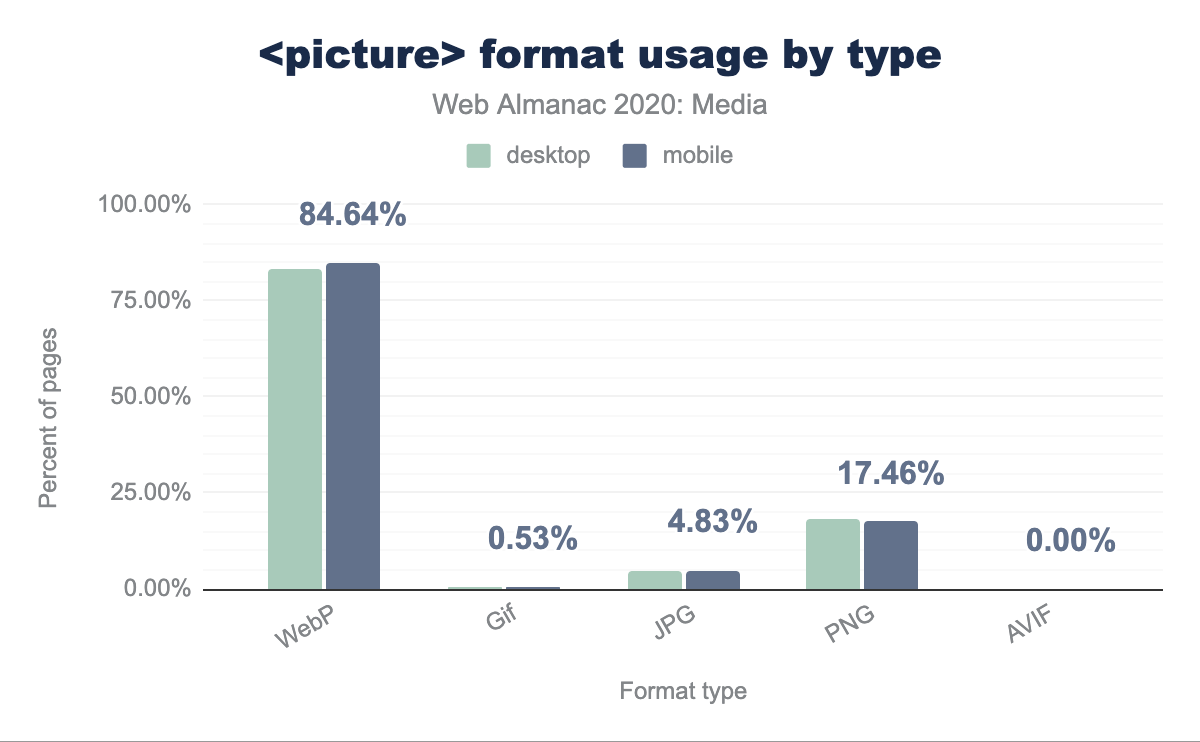
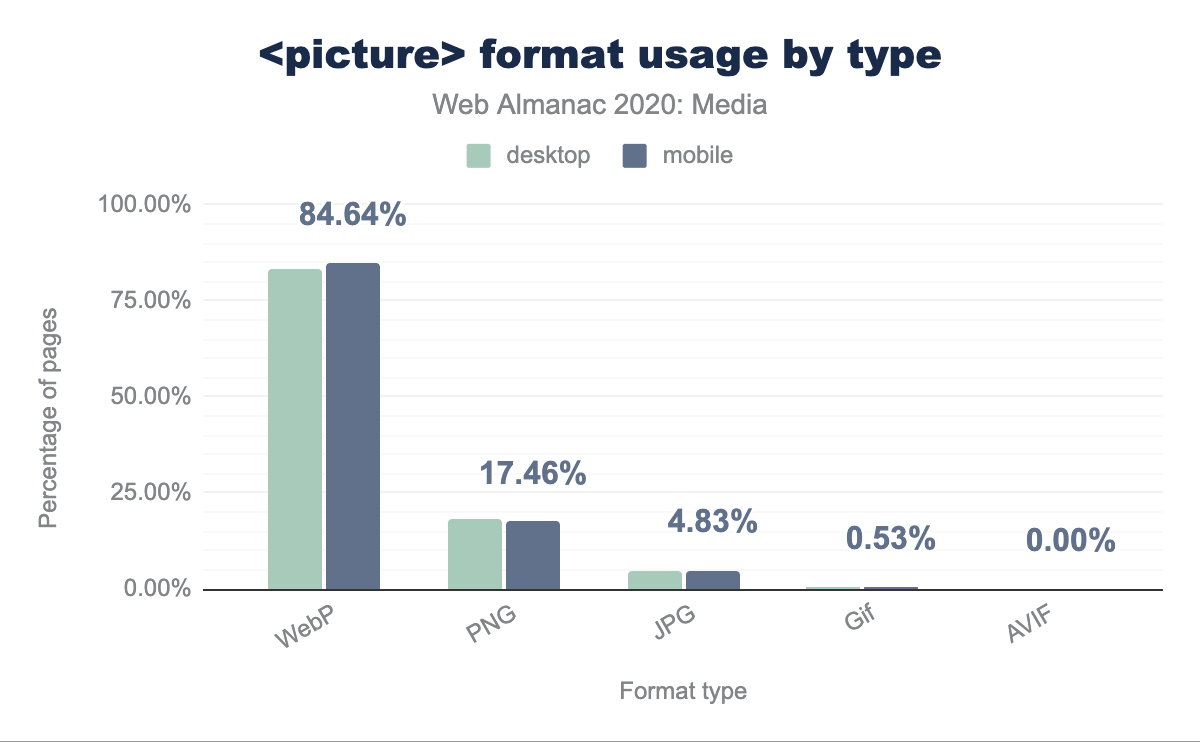
Fix axis

diff --git a/src/content/en/2020/media.md b/src/content/en/2020/media.md
@@ -99,14 +99,12 @@ Both approaches enable the user agent to mathematically factor in the current de
 {{ figure_markup(
   image="srcset-descriptor-usage.png",
   caption="Srcset descriptor usage.",
-  description="Bar chart showing srcset descriptor usage for pages and images for desktop and mobile. 4.90% of desktop images and 5.15% of mobile pages use descriptor x, compared with 21.37% of desktop and 21.33% of mobile for descriptor w. However when looking at all images we see 12.67% of desktop images and 12.80% of mobile images use descriptor x, compared with 21.37% of desktop and 21.33% of mobile for descriptor w.",
+  description="Bar chart showing srcset descriptor usage for pages and images for desktop and mobile. 4.90% of desktop pages and 5.15% of mobile pages use descriptor x, compared with 21.37% of desktop pages and 21.33% of mobile for descriptor w. However when looking at all images we see 12.67% of desktop images and 12.80% of mobile images use descriptor x, compared with 21.37% of desktop and 21.33% of mobile for descriptor w.",
   chart_url="https://docs.google.com/spreadsheets/d/e/2PACX-1vTLNnD9VNqXNxMu60VovxIEp_L6vmNo1oWt8-C18DOetXB3qIkee_-KjZwYYPIkkIM-7So-5wBwQ4QY/pubchart?oid=1336533401&format=interactive",
   sheets_gid="1370415291",
   sql_file="image_srcset_descriptor.sql"
   )
 }}
-
-{# TODO y axis here should just say "Percent", I think as for the different bars it's percent of pages and percent of elements }
 
 In the early days of responsive images, some browsers only supported `x` descriptors, but clearly `w` descriptors are currently by far the most favored.
 
@@ -173,14 +171,12 @@ Breaking this down into the number of formats offered:
   image="picture-number-of-formats.png",
   alt="picture number of formats.",
   caption="`<picture>` number of formats.",
-  description="Bar chart showing number of formats in picture usage. 68.01% on desktop (68.03% on mobile) use 1 format. 2 formats is 23.78% and 23.78% respectively, 3 formats is 7.00% and 6.97% and 4+ formats is only used on 1.21% and 1.22% pages respectively.",
+  description="Bar chart showing number of formats in picture usage. 68.01% of pages on desktop (68.03% on mobile) use 1 format. 2 formats is 23.78% and 23.78% respectively, 3 formats is 7.00% and 6.97% and 4+ formats is only used on 1.21% and 1.22% pages respectively.",
   chart_url="https://docs.google.com/spreadsheets/d/e/2PACX-1vTLNnD9VNqXNxMu60VovxIEp_L6vmNo1oWt8-C18DOetXB3qIkee_-KjZwYYPIkkIM-7So-5wBwQ4QY/pubchart?oid=1963933588&format=interactive",
   sheets_gid="1719719920",
   sql_file="picture_format_distribution.sql"
   )
 }}
-
-{# TODO this y axis should say "Percent of picture elements" }
 
 Of pages using `<picture>` for format-switching, around 68% are offering a single type variation, in addition to the `<img src>` which acts as the default.
 
@@ -193,8 +189,6 @@ Of pages using `<picture>` for format-switching, around 68% are offering a singl
   sql_file="picture_format_distribution.sql"
   )
 }}
-
-{# TODO this y axis should say "Percent of source elements" }
 
 We see that WebP is the dominant usage across `<source>` elements, followed by PNG, and that and JPG is only 4.83% of `<picture>` usage.
 
@@ -396,7 +390,7 @@ The usage of these doesn't seem to be that widespread: 9% of pages utilize data 
 
 ### SEO & Accessibility
 
-Associating descriptive text with images not only helps accessibility for those who can't view the images and utilize screen-readers, but it is also being used by various computer vision algorithms to understand the subject matter of an image. Descriptive text should be meaningful in the context of the page and relevant to the image it is describing.
+Associating descriptive text with images not only helps accessibility for those who can't view the images and utilize screen-readers, but it is also being used by various computer vision algorithms to understand the subject matter of an image. Descriptive text should be meaningful in the context of the page and relevant to the image it is describing. More information on these topics can be found in the [SEO](./seo) and [Accessibility](./accessibility) chapters.
 
 #### Usage of `alt` text
 
